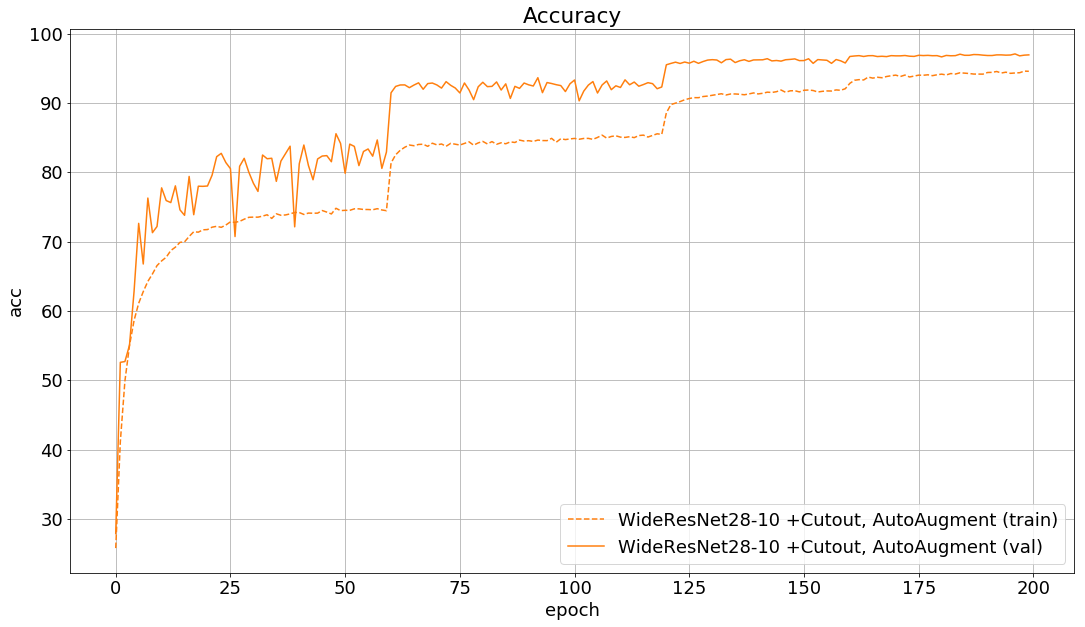
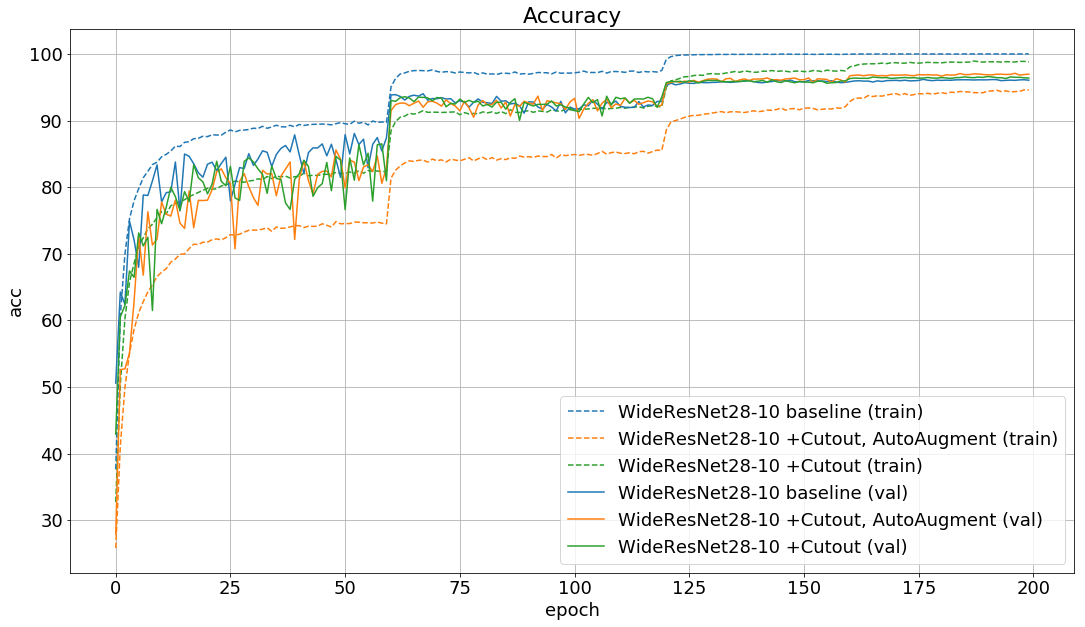
Add results

diff --git a/README.md b/README.md
@@ -21,12 +21,11 @@ python train.py --cutout True --auto-augment True
 
 ## Results
 ### CIFAR-10
-| Model                                               |  Error rate (%)   |   Loss   |
-|:----------------------------------------------------|:-----------------:|:--------:|
-|WideResNet28-10 baseline                             |                   |          |
-|WideResNet28-10 +Cutout, AutoAugment                 |               2.91|    0.0994|
-|WideResNet28-10 baseline (original paper)            |               3.87|         -|
-|WideResNet28-10 +Cutout, AutoAugment (original paper)|               2.68|         -|
+| Model                                               | Error rate |   Loss   | Error rate (paper) |
+|:----------------------------------------------------|:----------:|:--------:|:------------------:|
+|WideResNet28-10 baseline                             |        3.82|    0.1576|                3.87|
+|WideResNet28-10 +Cutout                              |        3.40|    0.1280|                3.08|
+|WideResNet28-10 +Cutout, AutoAugment                 |    **2.91**|**0.0994**|            **2.68**|
 
 Learning curves of loss and accuracy.
 
